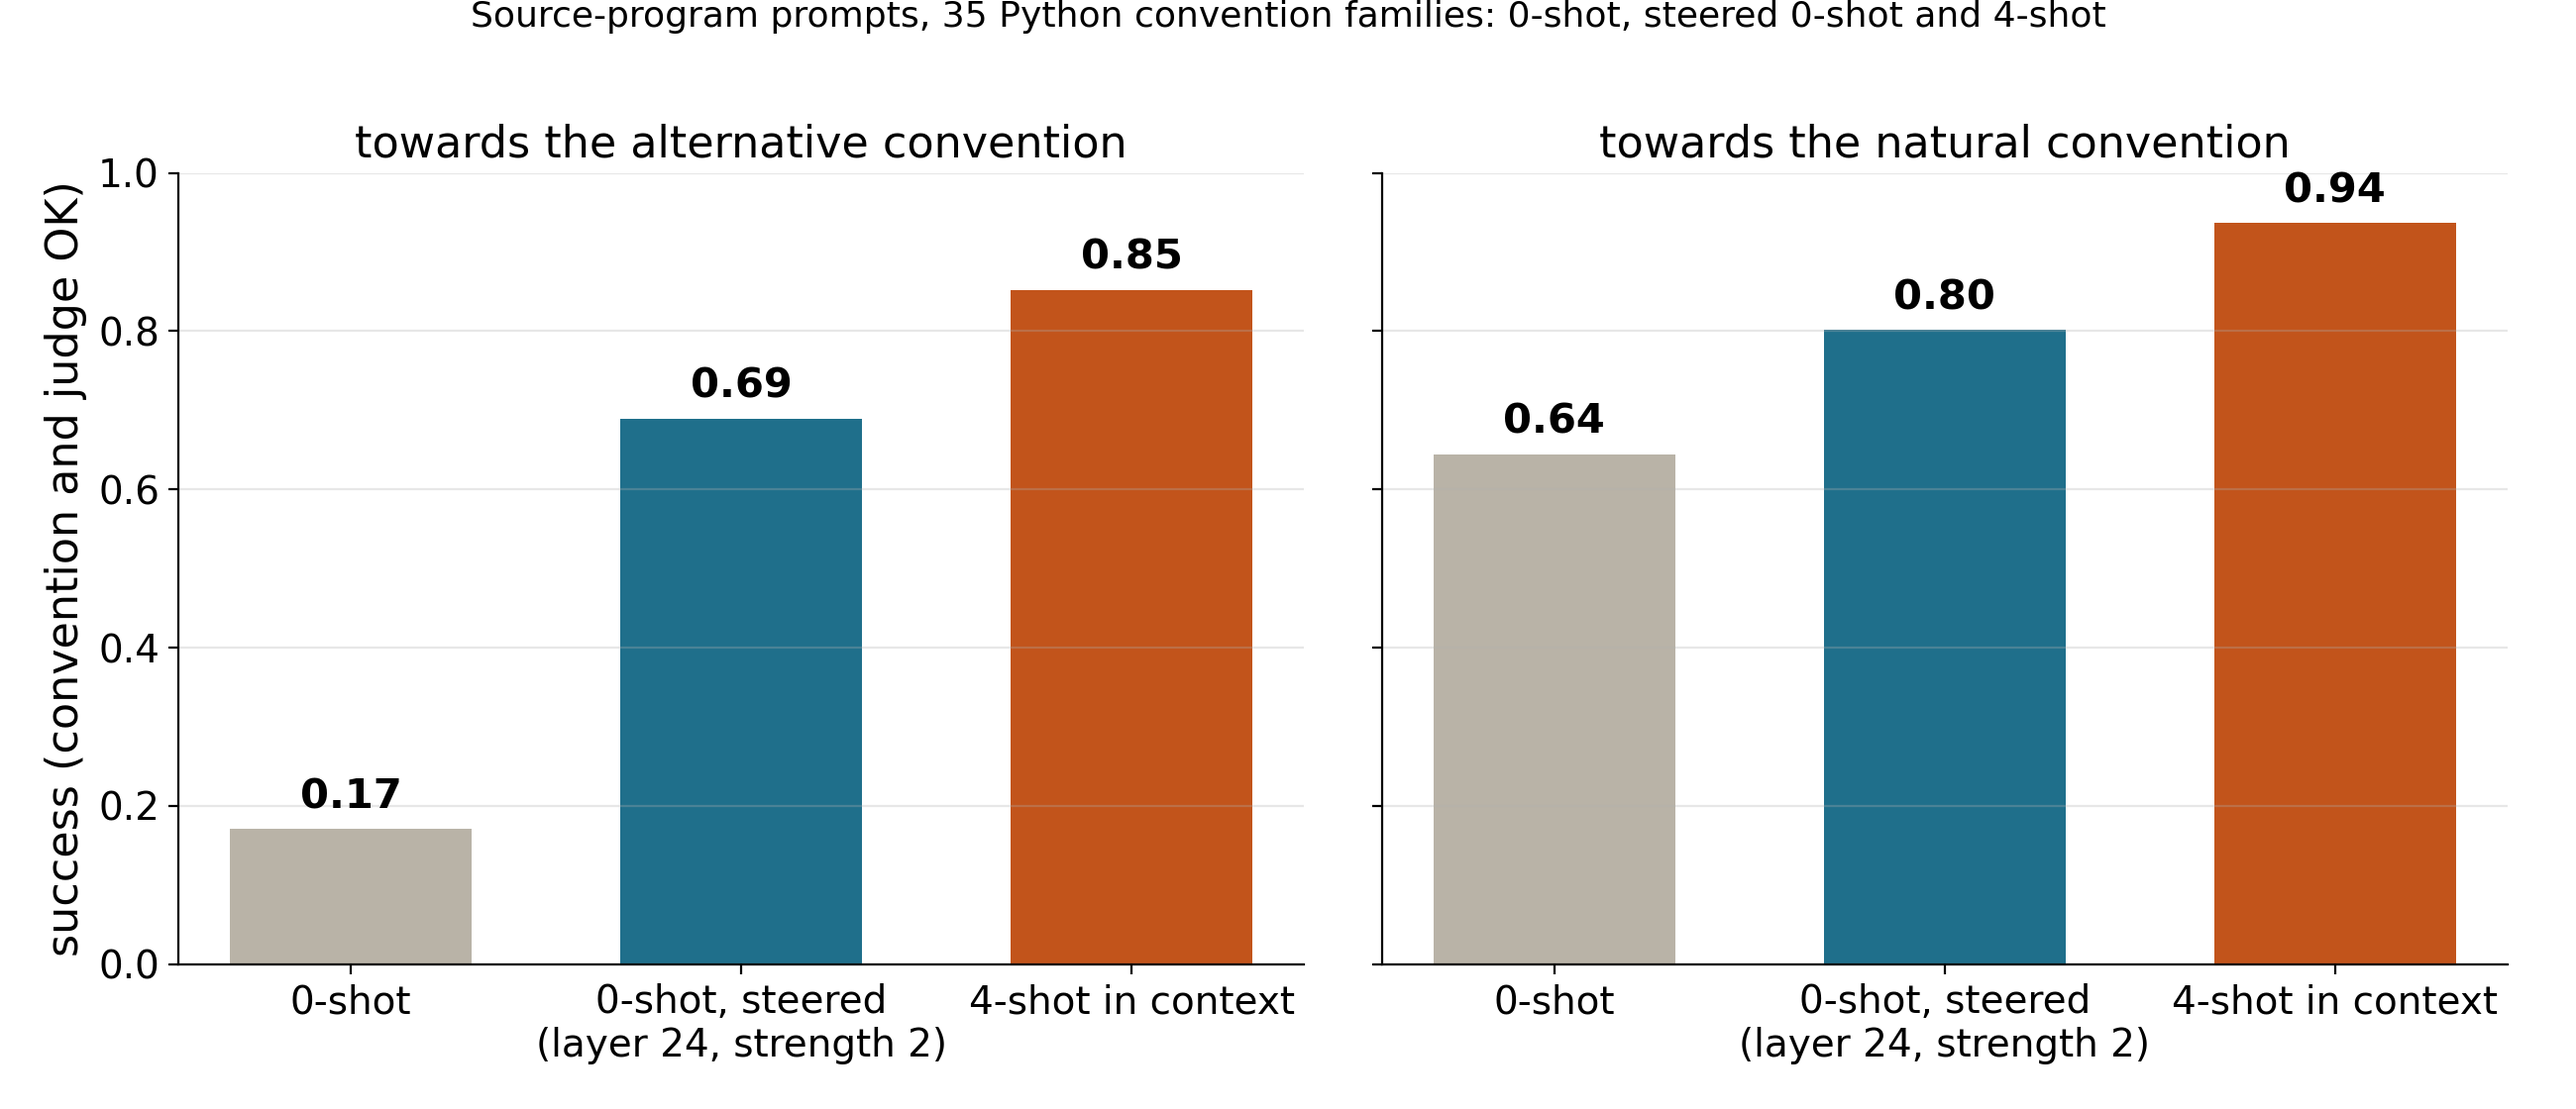
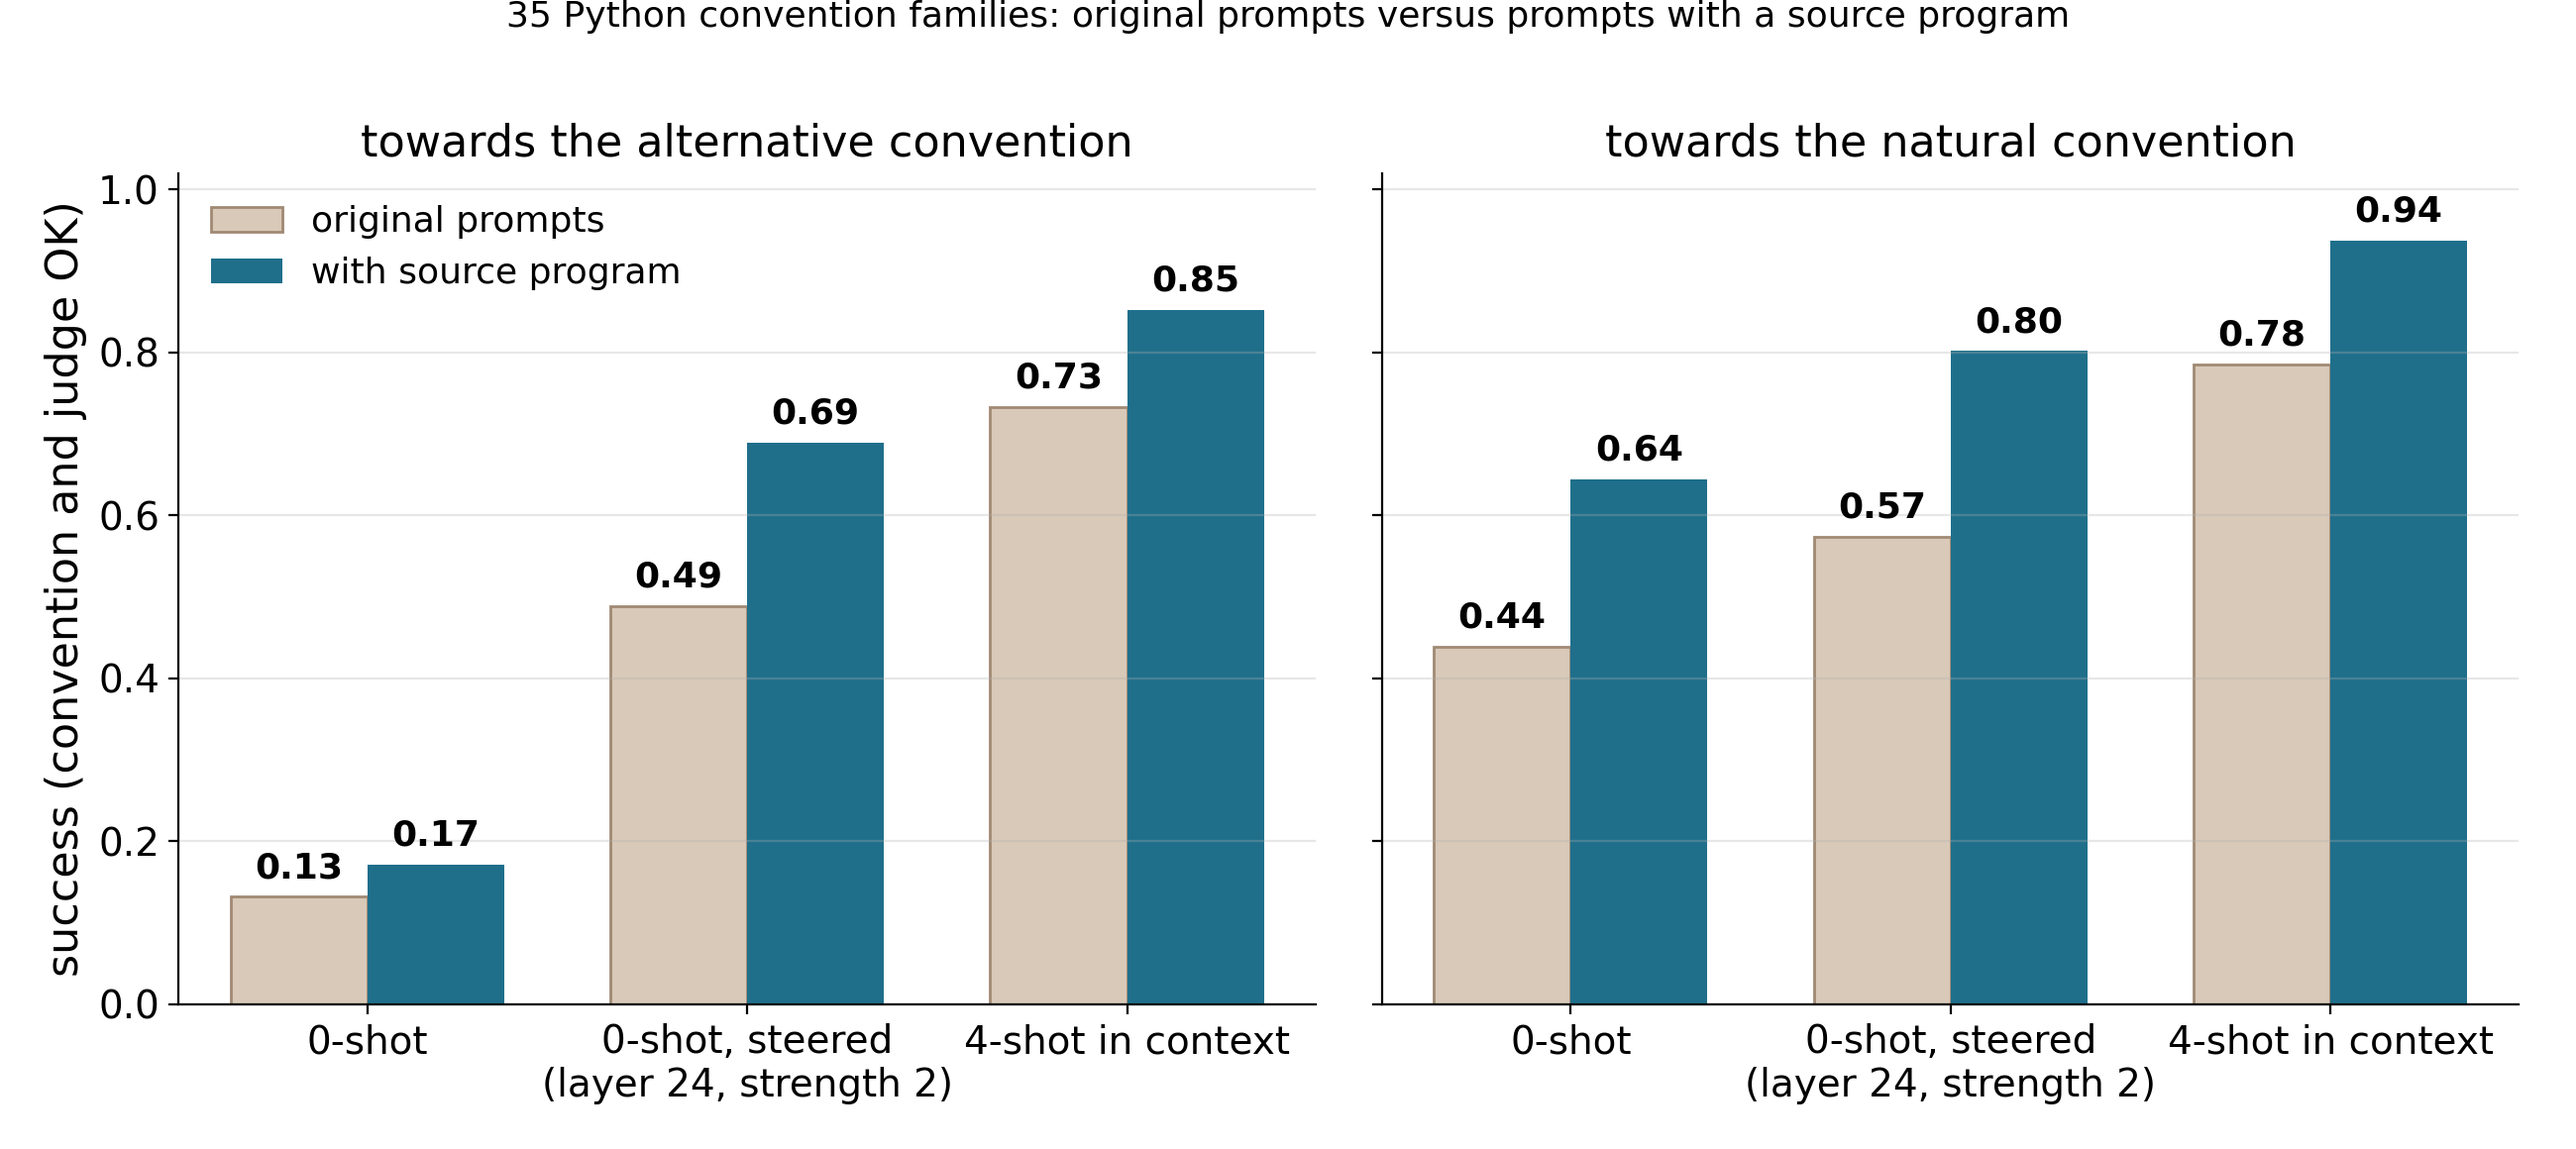
Code styles: bar chart with original-prompt comparison and selection check (doc and family splits pick L24 a2)

diff --git a/results/code_styles/translation_prompts/write_steering/README.md b/results/code_styles/translation_prompts/write_steering/README.md
@@ -29,3 +29,7 @@ Pooled success (35 families; unsteered 0-shot: natural .64, alternative .17):
   (first-token margins 14–17 at those cells).
 - Note: with the source program the prompts are 1,000–2,300 tokens; `write_sweep.py` now computes the first-token logits at the last position only
   and uses an adaptive batch (token budget), which was needed to fit 32 GB.
+
+Selection check (2026-10-15): the shared cell is chosen on the same held-out prompts that are reported. Re-selecting on the first 20 held-out docs per
+family and scoring the last 20 picks L24 α2 again: alt .67 / nat .79; family-split folds (18/17) also pick L24 α2: alt .71 / .67, nat .79 / .81
+(`sweep35/bars_summary.json`). Bar chart `sweep35/bars_slide.png`: original prompts vs source program, 0-shot / steered 0-shot / 4-shot.
